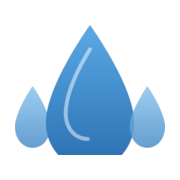
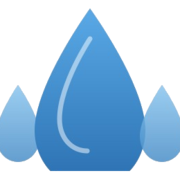
avtopoliv: ребренд Rainly в текстах, новый логотип, блок «О компании», hero ярче
- Логотип заменён на обновлённый Rainly (favicon/apple-touch/og пересобраны)
- Бренд в текстах Автополив.kz -> Rainly (title, SEO, og, JSON-LD, футер, ©, форма)
- 10+ лет -> более 7 лет (везде: meta, услуги, бейдж 7+, счётчик)
- О компании: заголовок «Ваш газон — зелёный и получает воду точно по расписанию» + новый текст
- Убран счётчик «5+ кейсов» (осталось 2: лет опыта, бренды)
- Hero-картинка ярче (scrim легче + filter saturate/brightness)

Changed region(s): [[0.0, 0.0556, 1.0, 0.9722]]

diff --git a/index.html b/index.html
@@ -3,22 +3,22 @@
 <head>
 <meta charset="UTF-8">
 <meta name="viewport" content="width=device-width, initial-scale=1.0">
-<title>Автополив.kz - автоматический полив под ключ и рулонный газон в Алматы</title>
-<meta name="description" content="Установка систем автоматического полива под ключ и укладка рулонного газона в Алматы. 10+ лет опыта, оборудование Hunter, Rain Bird, Gardena, K-Rain. Бесплатный выезд и замер участка.">
+<title>Rainly — автополив под ключ и рулонный газон в Алматы</title>
+<meta name="description" content="Rainly — установка систем автоматического полива под ключ и укладка рулонного газона в Алматы. Более 7 лет опыта, оборудование Hunter, Rain Bird, Gardena, K-Rain. Бесплатный выезд и замер участка.">
 <meta name="theme-color" content="#0E6BA8">
 <link rel="canonical" href="https://ali-hub-01.github.io/avtopoliv/">
 
 <meta property="og:type" content="website">
 <meta property="og:locale" content="ru_RU">
-<meta property="og:site_name" content="Автополив.kz">
-<meta property="og:title" content="Автополив.kz - автоматический полив под ключ и рулонный газон в Алматы">
+<meta property="og:site_name" content="Rainly">
+<meta property="og:title" content="Rainly — автополив под ключ и рулонный газон в Алматы">
 <meta property="og:description" content="Проектирование, монтаж и обслуживание систем автополива. Укладка рулонного газона под ключ. Бесплатный выезд и замер по Алматы и области.">
 <meta property="og:url" content="https://ali-hub-01.github.io/avtopoliv/">
 <meta property="og:image" content="https://ali-hub-01.github.io/avtopoliv/assets/og-image.jpg">
 <meta property="og:image:width" content="1200">
 <meta property="og:image:height" content="630">
 <meta name="twitter:card" content="summary_large_image">
-<meta name="twitter:title" content="Автополив.kz - автополив под ключ и рулонный газон, Алматы">
+<meta name="twitter:title" content="Rainly — автополив под ключ и рулонный газон, Алматы">
 <meta name="twitter:description" content="Автоматический полив под ключ, модернизация, ремонт и рулонный газон. Бесплатный замер участка.">
 <meta name="twitter:image" content="https://ali-hub-01.github.io/avtopoliv/assets/og-image.jpg">
 
@@ -34,7 +34,8 @@
 {
   "@context": "https://schema.org",
   "@type": "LocalBusiness",
-  "name": "Автополив.kz",
+  "name": "Rainly",
+  "alternateName": "Автополив Rainly",
   "description": "Установка систем автоматического полива под ключ и укладка рулонного газона в Алматы.",
   "image": "https://ali-hub-01.github.io/avtopoliv/assets/og-image.jpg",
   "url": "https://ali-hub-01.github.io/avtopoliv/",
@@ -59,7 +60,7 @@
 <!-- ===== ШАПКА ===== -->
 <header class="header" id="header">
   <div class="container header__inner">
-    <a href="#top" class="header__logo" aria-label="Автополив.kz - на главную">
+    <a href="#top" class="header__logo" aria-label="Rainly - на главную">
       <img src="assets/logo.png" width="329" height="400" alt="Логотип Rainly Автополив" decoding="async">
     </a>
 
@@ -138,7 +139,7 @@
     <header class="section__head reveal">
       <span class="eyebrow">Что мы делаем</span>
       <h2 class="section__title">Услуги под ключ</h2>
-      <p class="section__lead">Только услуги полива и газона - от проекта до запуска и обслуживания. Каждый этап ведут инженеры с опытом 10+ лет.</p>
+      <p class="section__lead">Только услуги полива и газона - от проекта до запуска и обслуживания. Каждый этап ведут инженеры с опытом более 7 лет.</p>
     </header>
 
     <div class="cards">
@@ -266,30 +267,27 @@
 <section class="section about" id="o-nas">
   <div class="container about__grid">
     <div class="about__media reveal">
-      <img src="assets/about.jpg" width="1000" height="556" alt="Мастер Автополив.kz за монтажом системы полива" loading="lazy" decoding="async">
+      <img src="assets/about.jpg" width="1000" height="556" alt="Мастер Rainly за монтажом системы автополива" loading="lazy" decoding="async">
       <div class="about__badge">
-        <strong>10+</strong>
+        <strong>7+</strong>
         <span>лет на рынке полива</span>
       </div>
     </div>
 
     <div class="about__body reveal">
       <span class="eyebrow">О компании</span>
-      <h2 class="section__title">Инженеры полива, а не продавцы оборудования</h2>
-      <p>Автополив.kz - это команда проектировщиков и инженеров из Алматы. Более 10 лет мы устанавливаем системы автоматического полива под ключ и укладываем рулонный газон. Мы не торгуем железом - мы отвечаем за результат: работающую систему и живой газон.</p>
+      <h2 class="section__title">Ваш газон — зелёный и получает воду точно по расписанию</h2>
+      <p>Занимаемся системами автополива и газонами в Алматы более 7 лет. Выезжаем на участок, проектируем систему полива под ваш рельеф и растения — и настраиваем так, чтобы она работала сама, по расписанию. Работаем с оборудованием Hunter, Rain Bird, Gardena и K-Rain — подбираем под конкретный участок, а не продаём то, что есть на складе.</p>
+      <p>Кроме полива укладываем газон — рулонный, если результат нужен за один день, или посевной, если готовы подождать некоторое время.</p>
 
       <div class="counters">
         <div class="counter">
-          <span class="counter__num" data-count="10" data-suffix="+">0</span>
+          <span class="counter__num" data-count="7" data-suffix="+">0</span>
           <span class="counter__label">лет опыта</span>
         </div>
         <div class="counter">
           <span class="counter__num" data-count="4">0</span>
           <span class="counter__label">бренда оборудования</span>
-        </div>
-        <div class="counter">
-          <span class="counter__num" data-count="5" data-suffix="+">0</span>
-          <span class="counter__label">кейсов с 2020 <em>*уточняется</em></span>
         </div>
       </div>
 
@@ -434,7 +432,7 @@
   <div class="container footer__inner">
     <div class="footer__brand">
       <img src="assets/logo.png" width="329" height="400" alt="Rainly Автополив" loading="lazy" decoding="async">
-      <p>Автоматический полив под ключ и рулонный газон в Алматы. 10+ лет опыта.</p>
+      <p>Rainly — автоматический полив под ключ и рулонный газон в Алматы. Более 7 лет опыта.</p>
     </div>
     <nav class="footer__nav" aria-label="Навигация в подвале">
       <a href="#pod-klyuch">Автополив под ключ</a>
@@ -450,7 +448,7 @@
   </div>
   <div class="footer__bottom">
     <div class="container">
-      <span>© <span id="year">2026</span> Автополив.kz · Алматы</span>
+      <span>© <span id="year">2026</span> Rainly · Алматы</span>
       <a href="#top" class="footer__top">Наверх ↑</a>
     </div>
   </div>

diff --git a/styles.css b/styles.css
@@ -144,12 +144,12 @@ h1,h2,h3{ margin:0; line-height:1.15; letter-spacing:-.02em; }
 /* ---------- HERO ---------- */
 .hero{ position:relative; overflow:hidden; isolation:isolate; }
 .hero__media{ position:absolute; inset:0; z-index:-2; }
-.hero__media img{ width:100%; height:100%; object-fit:cover; }
+.hero__media img{ width:100%; height:100%; object-fit:cover; filter:saturate(1.2) brightness(1.1) contrast(1.03); }
 .hero__scrim{
   position:absolute; inset:0;
   background:
-    linear-gradient(180deg, rgba(8,40,25,.62) 0%, rgba(8,45,30,.45) 45%, rgba(10,50,35,.72) 100%),
-    linear-gradient(100deg, rgba(14,107,168,.42), rgba(30,122,61,.28));
+    linear-gradient(180deg, rgba(8,40,25,.48) 0%, rgba(8,45,30,.30) 45%, rgba(10,50,35,.64) 100%),
+    linear-gradient(100deg, rgba(14,107,168,.32), rgba(30,122,61,.20));
 }
 .hero__content{
   position:relative; z-index:2;
@@ -295,7 +295,7 @@ h1,h2,h3{ margin:0; line-height:1.15; letter-spacing:-.02em; }
 .about__badge strong{ font-size:1.9rem; font-weight:800; background:var(--grad); -webkit-background-clip:text; background-clip:text; -webkit-text-fill-color:transparent; }
 .about__badge span{ font-size:.82rem; color:var(--ink-soft); font-weight:600; }
 .about__body p{ color:var(--ink-soft); font-size:1.05rem; }
-.counters{ display:grid; grid-template-columns:repeat(3,minmax(0,1fr)); gap:14px; margin:26px 0; }
+.counters{ display:grid; grid-template-columns:repeat(2,minmax(0,1fr)); gap:14px; margin:26px 0; }
 .counter{ background:var(--bg-2); border:1px solid var(--line); border-radius:var(--radius-sm); padding:16px 12px; text-align:center; }
 .counter__num{ display:block; font-size:clamp(1.5rem,6vw,2rem); font-weight:800; color:var(--green-d); line-height:1; }
 .counter__label{ display:block; font-size:.76rem; color:var(--ink-soft); margin-top:6px; font-weight:600; }

diff --git a/script.js b/script.js
@@ -1,5 +1,5 @@
 /* ============================================================
-   Автополив.kz - интерактив
+   Rainly - интерактив
    ============================================================ */
 (function () {
   'use strict';
@@ -120,7 +120,7 @@
       }
 
       var lines = [
-        'Заявка с сайта Автополив.kz',
+        'Заявка с сайта Rainly',
         'Имя: ' + name.value.trim(),
         'Телефон: ' + phone.value.trim(),
         'Услуга: ' + service.value
